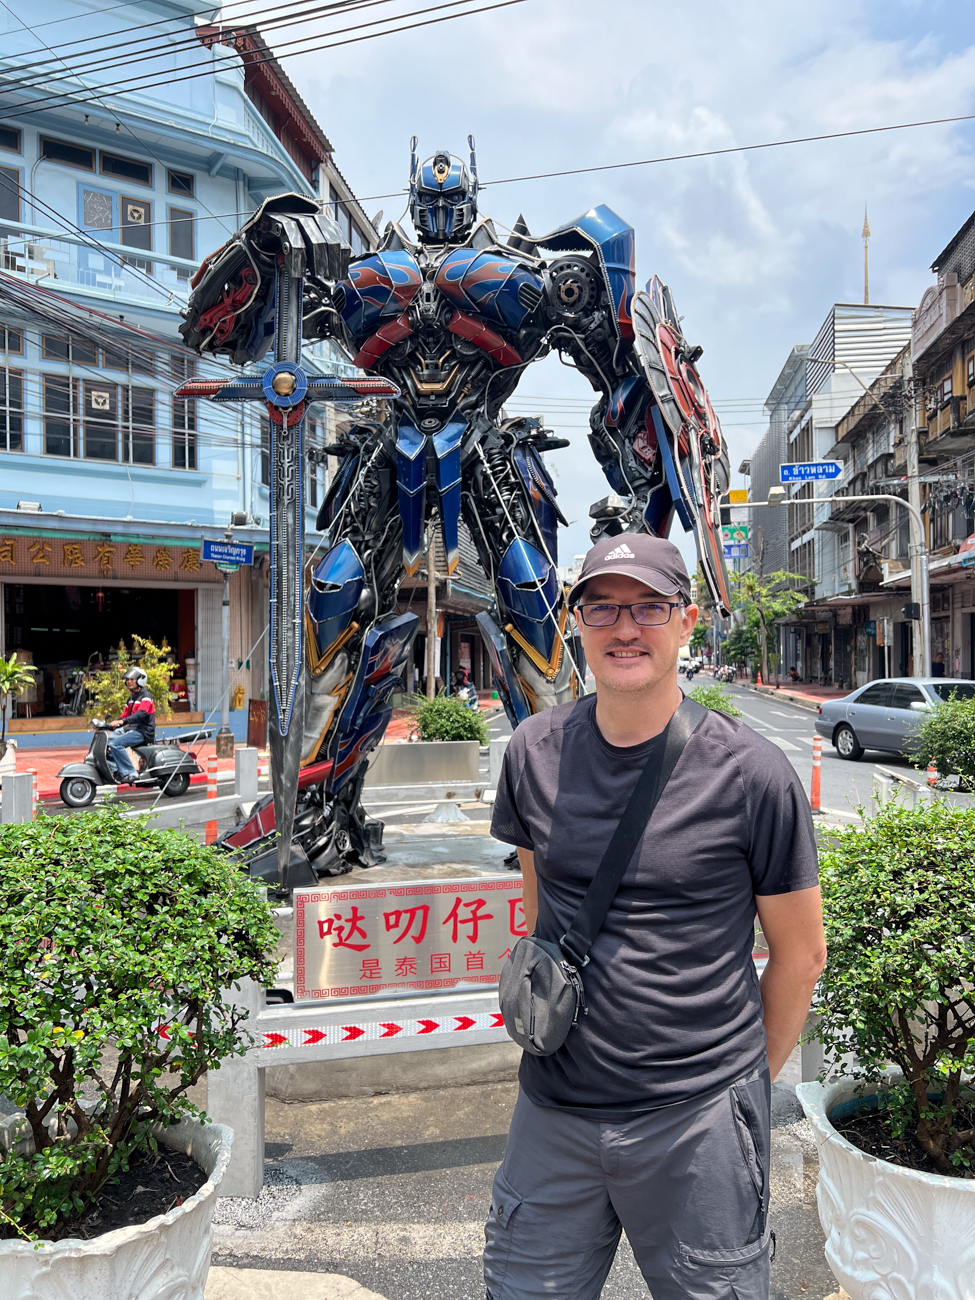
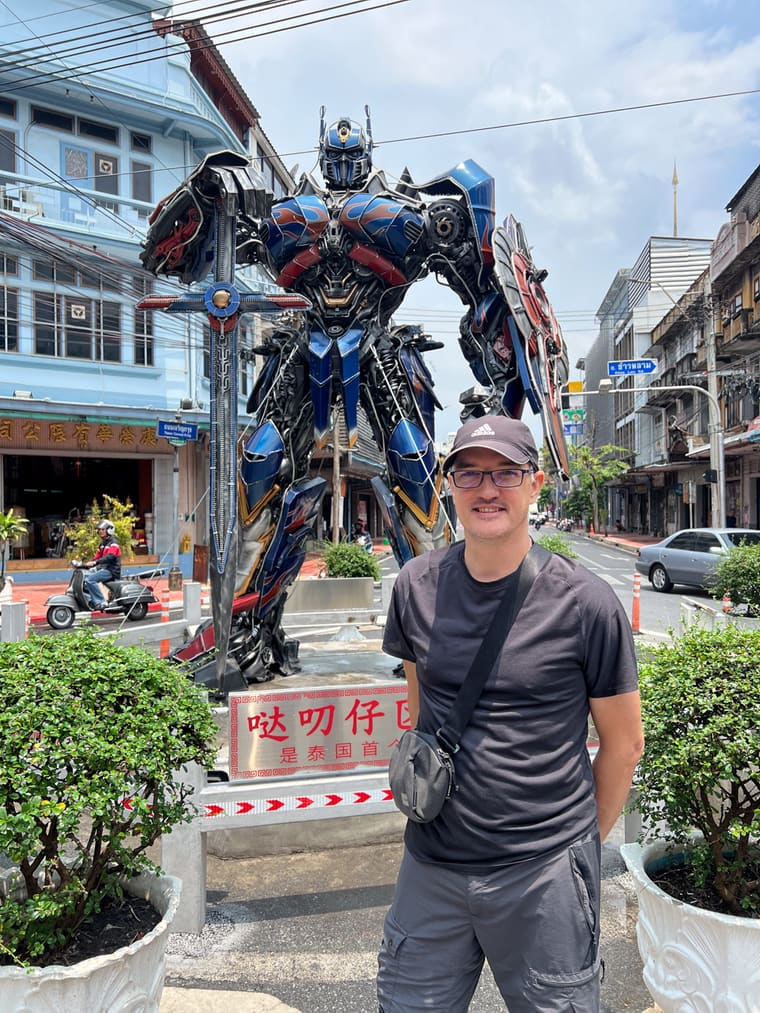
feat: update maintenance scripts and improve empty state messaging for albums

diff --git a/src/routes/albums/+page.svelte b/src/routes/albums/+page.svelte
@@ -69,7 +69,13 @@
 	{/if}
 
 	{#if data.albums.length === 0}
-		<p class="empty">Noch keine Alben. Lade mehrere Fotos in einem Post hoch und aktiviere "als Album speichern".</p>
+		<p class="empty">
+			{#if data.user}
+				Noch keine Alben. Lade mehrere Fotos in einem Post hoch und aktiviere "als Album speichern".
+			{:else}
+				Noch keine Alben.
+			{/if}
+		</p>
 	{/if}
 
 	<JustifiedGallery items={data.albums} targetRowHeight={210} gap={8}>

diff --git a/src/routes/ueber-mich/+page.svelte b/src/routes/ueber-mich/+page.svelte
@@ -13,8 +13,8 @@
 			class="portrait"
 			src="/me.jpg"
 			alt="Adrian Altner"
-			width="975"
-			height="1300"
+			width="760"
+			height="1013"
 		/>
 
 		<div class="content">

diff --git a/tasks/lessons.md b/tasks/lessons.md
@@ -54,3 +54,14 @@ Hauptspalte plus rechte Leiste wäre seine optische Mitte gegenüber der gesamte
 - Auf der ersten Seite darf „Ältere“ nur erscheinen, wenn wirklich ein überzähliger Datensatz
   geladen wurde (`hasMore`). Das bloße Fehlen eines Cursors beweist nicht, dass eine Folgeseite
   existiert.
+
+## Wartungsskripte im Deployment
+
+- Wenn ein neues `npm run`-Wartungsskript nach einem Deploy auf dem Server ausgeführt werden soll,
+  muss `scripts/` Teil der Synchronisation sein. Serverkommandos dürfen außerdem nicht zwingend
+  eine `.env` voraussetzen, weil die Produktion ihre Variablen über systemd erhält.
+
+## Leere Zustände
+
+- Handlungsaufforderungen zum Erstellen oder Hochladen nur eingeloggten Nutzern zeigen. Öffentliche
+  leere Übersichten bleiben neutral und beschreiben lediglich, dass noch keine Inhalte vorhanden sind.
